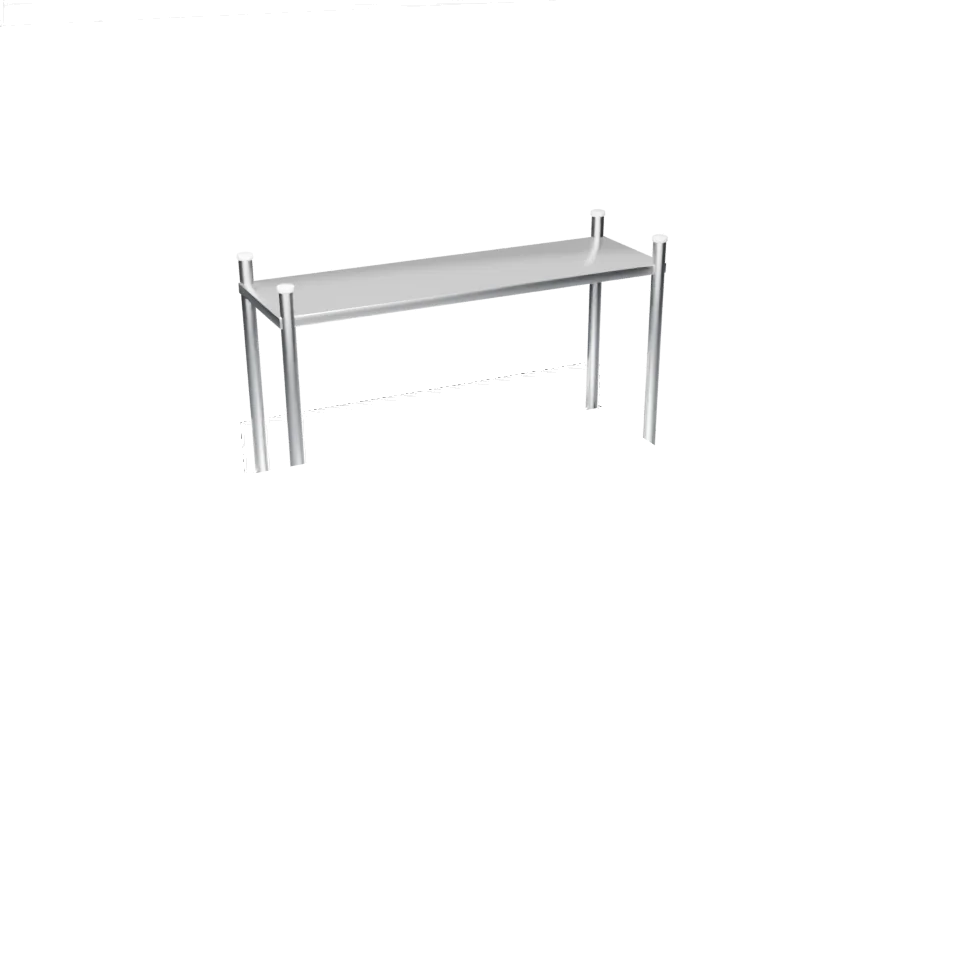
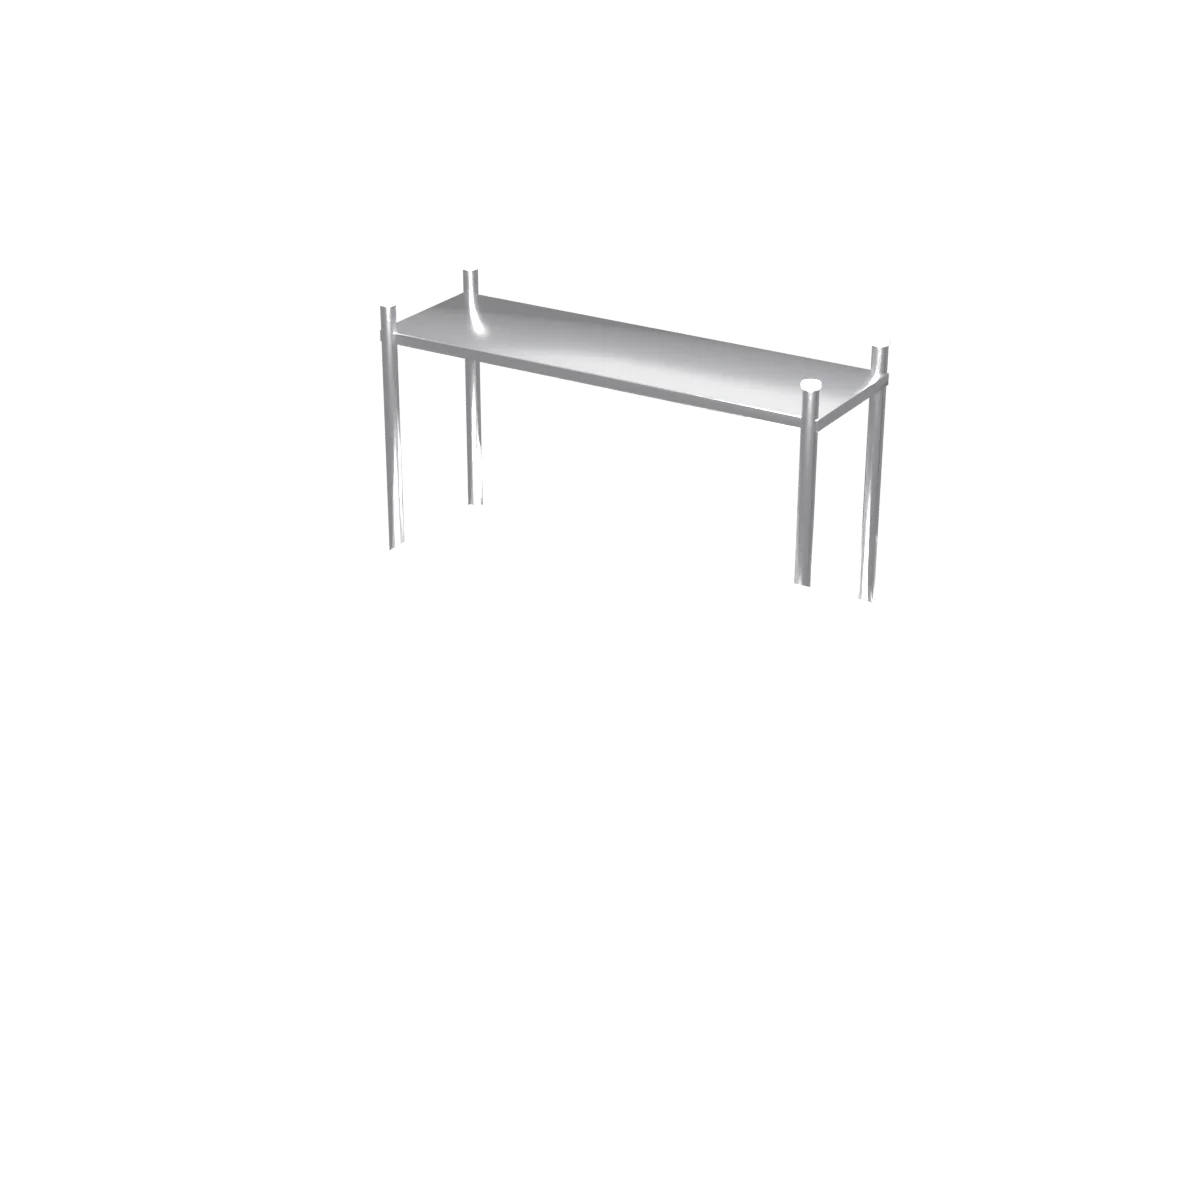
/quote: work table renders restyled - white studio, bright steel, no shadow, one size
- Same layered approach, re-rendered at 1200 px from the front-right
  (top rises to the left), white background like the reference renders
- Floor shadow removed; L/D/H arrows in blue on the white picture
- Sink bowl and chute opening now show through the top
- Feet hidden behind the bottom shelf; idle Quote button no longer peeks on phones

Claude-Session: https://claude.ai/code/session_01SuADwQBP7Jm1zo43bAQdQh

Changed region(s): [[0.25, 0.2188, 0.75, 0.5]]

diff --git a/public/quote.html b/public/quote.html
@@ -325,6 +325,7 @@ body:not(.expert) .custom{display:none}
 @keyframes flashq{0%{box-shadow:-8px 0 24px rgba(0,0,0,.08),inset 0 0 0 3px var(--accent)}100%{box-shadow:-8px 0 24px rgba(0,0,0,.08),inset 0 0 0 0 transparent}}
 .cartfab{position:fixed;right:clamp(16px,3vw,28px);bottom:calc(env(safe-area-inset-bottom,0px) + 20px);z-index:16;display:flex;align-items:center;gap:8px;height:52px;padding:0 18px 0 16px;border:0;border-radius:26px;background:var(--ink);color:var(--bg);font:inherit;font-weight:600;font-size:15px;cursor:pointer;box-shadow:0 8px 24px rgba(0,0,0,.2);transform:translateY(160%);transition:transform .2s ease}
 .cartfab.show{transform:none}
+.cartfab:not(.show){visibility:hidden;transition:transform .2s ease,visibility 0s linear .2s}
 .cartfab .ccount{min-width:22px;height:22px;padding:0 6px;border-radius:11px;background:var(--accent);color:var(--on-accent);display:flex;align-items:center;justify-content:center;font-size:12px}
 .cartfab .ctotal{font-family:"IBM Plex Mono",ui-monospace,monospace;font-weight:500}
 .totop{position:fixed;right:clamp(16px,3vw,28px);bottom:calc(env(safe-area-inset-bottom,0px) + 20px);z-index:16;width:44px;height:44px;border-radius:22px;border:1px solid var(--line);background:var(--card-on);color:var(--ink);display:flex;align-items:center;justify-content:center;cursor:pointer;box-shadow:0 4px 12px rgba(0,0,0,.12);opacity:0;visibility:hidden;transition:opacity .2s ease,bottom .2s ease,visibility 0s linear .2s}
@@ -355,13 +356,13 @@ body.quote-open .cartfab,body.quote-full .totop,body.quote-open .totop{display:n
 .clistbox li:hover{background:color-mix(in srgb,var(--card) 70%,var(--accent) 30%)}
 .custmsg{margin:-8px 0 0;font-size:13px;color:var(--muted);min-height:1em}
 figure.wtfig{flex-direction:column;gap:10px}
-.rbox{width:100%;max-width:720px;margin-right:auto;border-radius:10px;overflow:hidden;background:#0E0F11}
-.rstage{position:relative;overflow:hidden;background:#0B0C0E}
+.rbox{width:100%;max-width:720px;margin-right:auto;border-radius:10px;overflow:hidden;background:#FFFFFF;border:1px solid var(--line)}
+.rstage{position:relative;overflow:hidden;background:#FFFFFF}
 .rlayers{position:absolute;left:0;width:100%}
 .rlayers img{position:absolute;inset:0;width:100%;height:100%;display:block}
 .rdetail{position:absolute;inset:0;width:100%;height:100%;object-fit:cover}
 .rdims{position:absolute;inset:0;width:100%;height:100%;overflow:visible;pointer-events:none}
-.rdims text{font-family:"IBM Plex Mono",ui-monospace,monospace;font-weight:500;fill:#FFFFFF;paint-order:stroke;stroke:rgba(14,15,17,.85);stroke-width:7px;stroke-linejoin:round}
+.rdims text{font-family:"IBM Plex Mono",ui-monospace,monospace;font-weight:500;fill:#1F4FA0;paint-order:stroke;stroke:#FFFFFF;stroke-width:7px;stroke-linejoin:round}
 .rthumbs{display:flex;gap:8px;flex-wrap:wrap;max-width:720px}
 .rthumbs button{display:flex;flex-direction:column;align-items:center;gap:4px;width:84px;padding:4px;border:1px solid var(--line);border-radius:6px;background:var(--card);color:var(--ink);cursor:pointer;font:inherit;font-size:11px;font-weight:600}
 .rthumbs button[aria-pressed="true"]{border:2px solid var(--accent);padding:3px}
@@ -1874,7 +1875,7 @@ window.addEventListener('resize', () => { if (!$('viewProd').hidden && pState.p)
    Rendered in Blender for this page: one camera per length band, a base (studio, top, legs) and every
    add-on as a see-through layer with its own floor shadow, cut where the legs / top are in front of it.
    The page stacks the layers for the build the customer picks. Files: /images/worktable/layers/<band>/<layer>.webp */
-const BANDS = {"1050": {"res": 960, "FL": [351.8, 864.7], "FR": [677.0, 759.3], "BL": [285.0, 752.6], "TFR": [719.0, 486.3], "topY": 307.3, "floorY": 879.5, "rackY": 81}};
+const BANDS = {"1050": {"res": 1200, "FL": [351.1, 940.0], "FR": [732.6, 1078.3], "BL": [481.4, 838.7], "TFR": [753.5, 722.0], "TFL": [306.7, 597.6], "topY": 378.8, "floorY": 1094.9, "rackY": 108}};
 const BAND_KEYS = Object.keys(BANDS).map(Number).sort((x, y) => x - y);
 const LIMG = (b, n) => '/images/worktable/layers/' + b + '/' + n + '.webp';
 const DIMG = (n) => '/images/worktable/' + n + '.webp';
@@ -1902,7 +1903,7 @@ function layerImg(name) {
   if (!layerImgs[name]) { const i = document.createElement('img'); i.alt = ''; i.decoding = 'async'; i.dataset.layer = name; $('rLayers').appendChild(i); layerImgs[name] = i; }
   return layerImgs[name];
 }
-const ORDER = ['base', 'S3back', 'rails', 'U1', 'U2', 'U3', 'feet', 'W4', 'G', 'SK', 'C', 'S3sides', 'D', 'B', 'O1', 'O2'];
+const ORDER = ['base', 'S3back', 'feet', 'W4', 'rails', 'U1', 'U2', 'U3', 'G', 'SK', 'C', 'S3sides', 'D', 'B', 'O1', 'O2'];
 function drawStack(band, names, crop) {
   const m = BANDS[band], res = m.res;
   const stage = $('rStage');
@@ -1923,14 +1924,17 @@ function drawLayerDims(band, crop, L, D) {
   svg.setAttribute('viewBox', '0 ' + crop[0] + ' ' + res + ' ' + (crop[1] - crop[0]));
   const px = $('rStage').getBoundingClientRect().width || 600, k = res / px, sc = Math.min(1, Math.max(0.62, px / 600)), fs = 13 * sc * k, off = 22 * sc * k;
   const seg = (a, b, sx, sy) => { const len = Math.hypot(b[0] - a[0], b[1] - a[1]) || 1; let nx = -(b[1] - a[1]) / len, ny = (b[0] - a[0]) / len; if (nx * sx + ny * sy < 0) { nx = -nx; ny = -ny; } return [a[0] + nx * off, a[1] + ny * off, b[0] + nx * off, b[1] + ny * off]; };
-  const segs = { L: seg(m.FL, m.FR, 0, 1), D: seg(m.FL, m.BL, -1, 0.3), H: [m.TFR[0] + off, m.FR[1], m.TFR[0] + off, m.TFR[1]] };
+  const BR = [m.FR[0] + m.BL[0] - m.FL[0], m.FR[1] + m.BL[1] - m.FL[1]], TFL = m.TFL || m.TFR;
+  const segs = m.TFL
+    ? { L: seg(m.FL, m.FR, 0, 1), D: seg(m.FR, BR, 1, 0.3), H: [TFL[0] - off, m.FL[1], TFL[0] - off, TFL[1]] }
+    : { L: seg(m.FL, m.FR, 0, 1), D: seg(m.FL, m.BL, -1, 0.3), H: [m.TFR[0] + off, m.FR[1], m.TFR[0] + off, m.TFR[1]] };
   const val = { L: L, D: D, H: 850 }, cx = res / 2, cy = (crop[0] + crop[1]) / 2;
-  let out = '<defs><marker id="rHead" viewBox="0 0 10 10" refX="9" refY="5" markerWidth="7" markerHeight="7" orient="auto-start-reverse"><path d="M0,0 L10,5 L0,10 z" fill="#FFFFFF"></path></marker></defs>';
+  let out = '<defs><marker id="rHead" viewBox="0 0 10 10" refX="9" refY="5" markerWidth="7" markerHeight="7" orient="auto-start-reverse"><path d="M0,0 L10,5 L0,10 z" fill="#1F4FA0"></path></marker></defs>';
   ['L', 'D', 'H'].forEach((key) => {
     const [x1, y1, x2, y2] = segs[key], mx = (x1 + x2) / 2, my = (y1 + y2) / 2, len = Math.hypot(x2 - x1, y2 - y1) || 1;
     let nx = -(y2 - y1) / len, ny = (x2 - x1) / len; if (nx * (mx - cx) + ny * (my - cy) < 0) { nx = -nx; ny = -ny; }
     const tx = mx + nx * fs, ty = my + ny * fs; let ang = Math.atan2(y2 - y1, x2 - x1) * 180 / Math.PI; if (ang >= 90) ang -= 180; if (ang < -90) ang += 180;
-    out += '<line x1="' + x1.toFixed(1) + '" y1="' + y1.toFixed(1) + '" x2="' + x2.toFixed(1) + '" y2="' + y2.toFixed(1) + '" stroke="#FFFFFF" stroke-width="2" vector-effect="non-scaling-stroke" marker-start="url(#rHead)" marker-end="url(#rHead)"></line>' +
+    out += '<line x1="' + x1.toFixed(1) + '" y1="' + y1.toFixed(1) + '" x2="' + x2.toFixed(1) + '" y2="' + y2.toFixed(1) + '" stroke="#1F4FA0" stroke-width="2" vector-effect="non-scaling-stroke" marker-start="url(#rHead)" marker-end="url(#rHead)"></line>' +
       '<text x="' + tx.toFixed(1) + '" y="' + ty.toFixed(1) + '" font-size="' + fs.toFixed(0) + '" text-anchor="middle" dominant-baseline="middle" transform="rotate(' + ang.toFixed(1) + ' ' + tx.toFixed(1) + ' ' + ty.toFixed(1) + ')">' + key + ' ' + val[key] + ' mm</text>';
   });
   svg.innerHTML = out;
